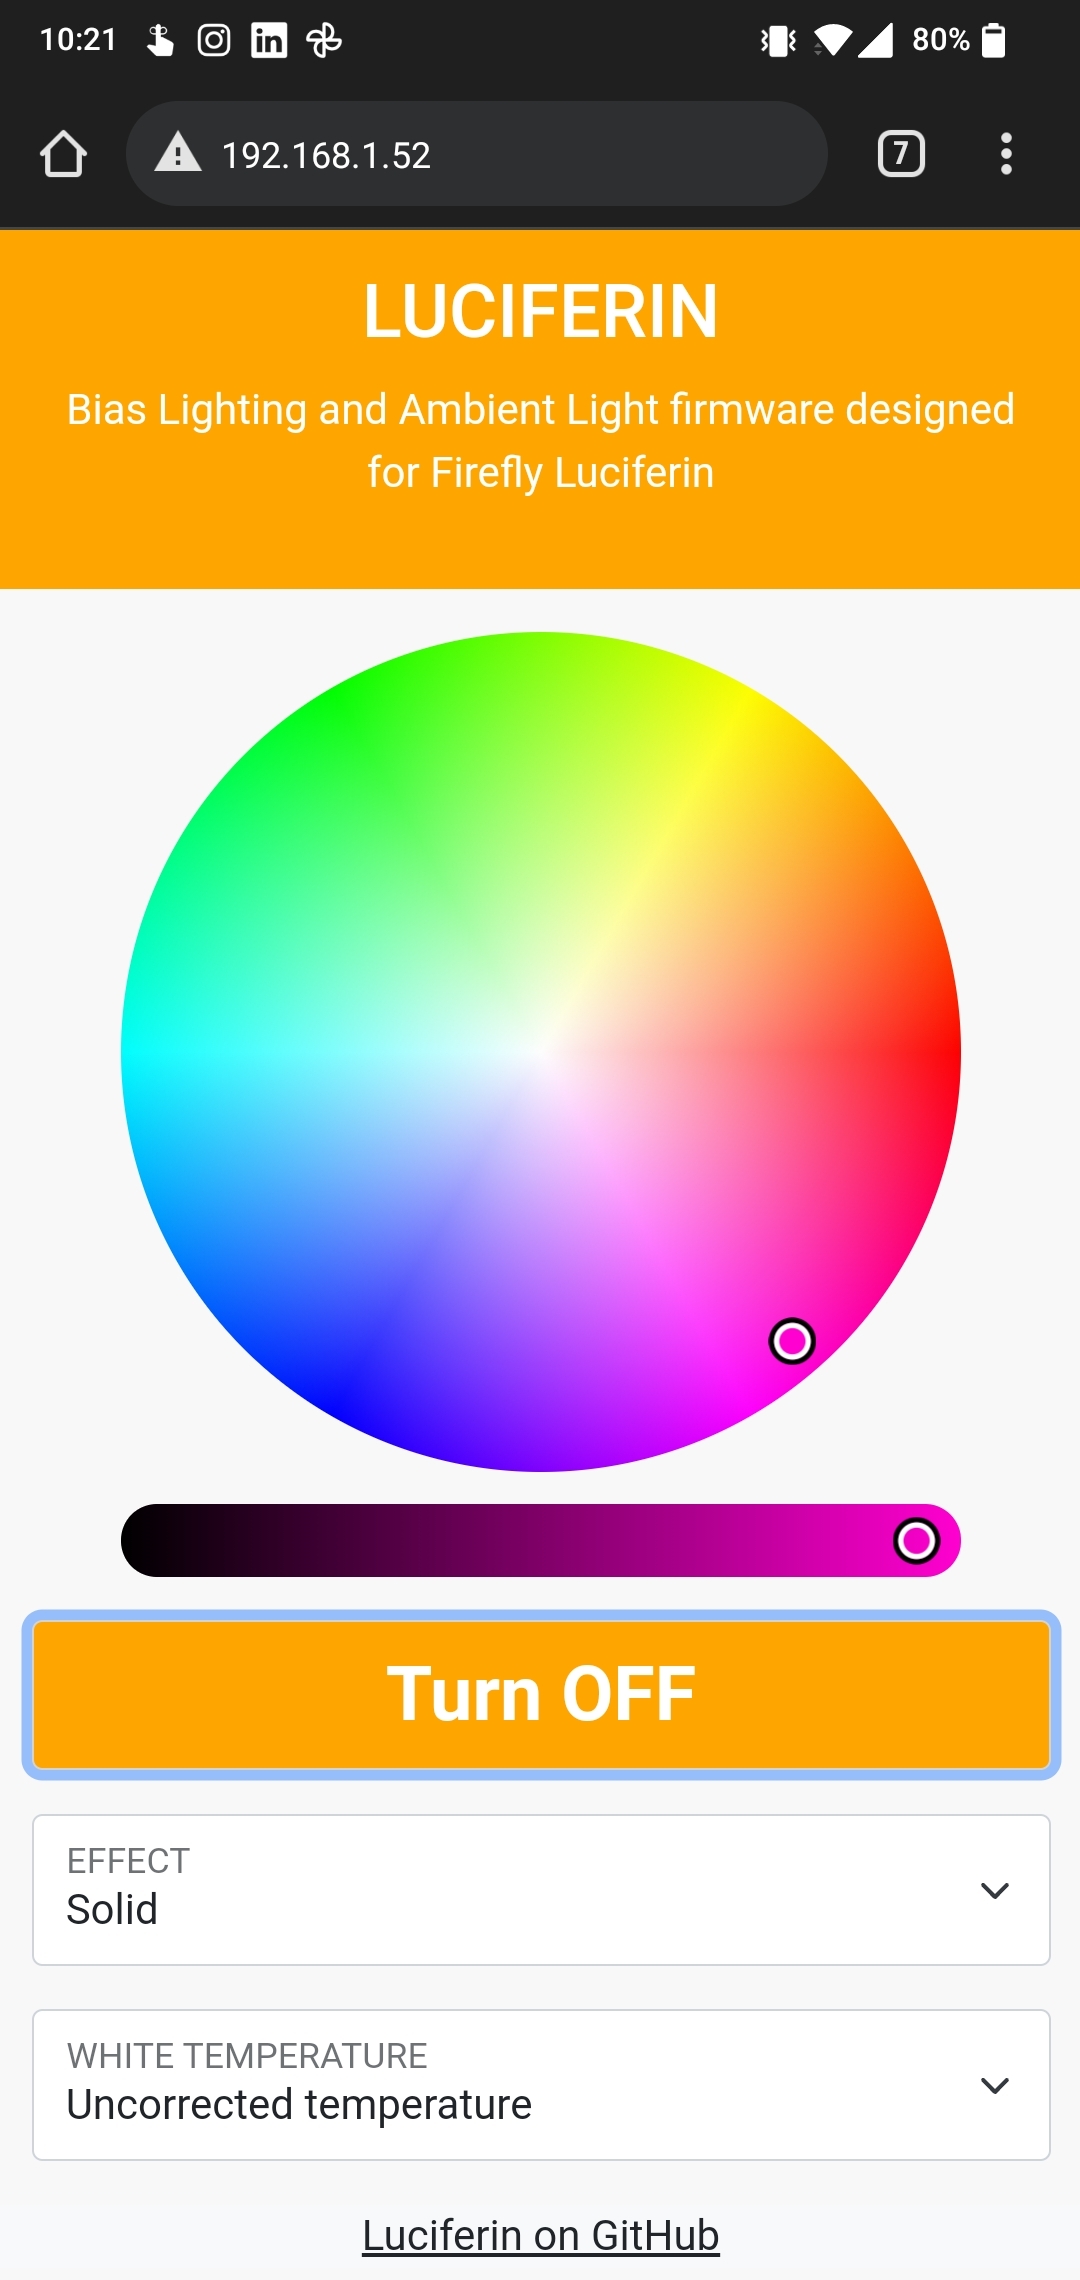
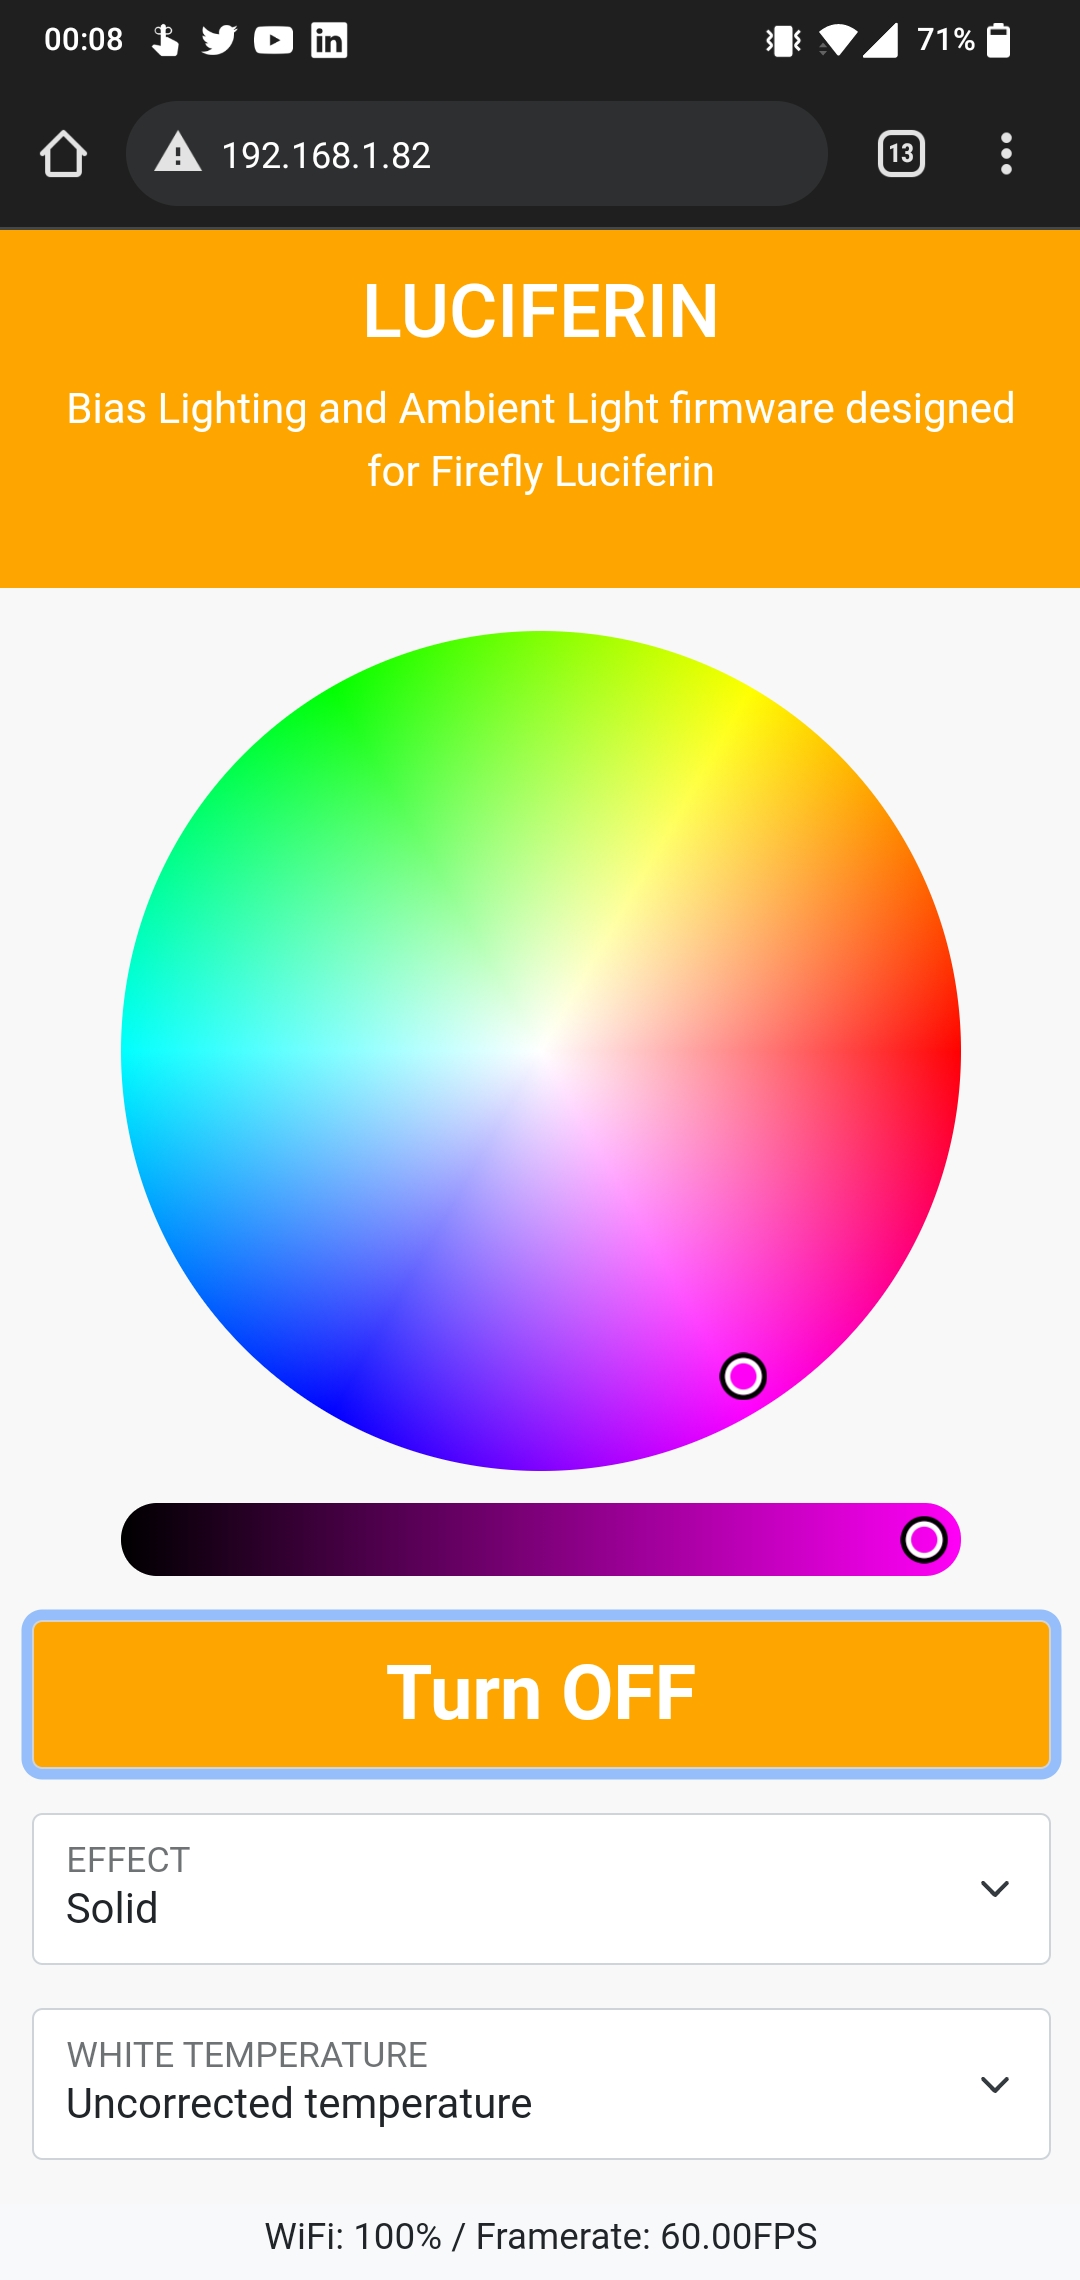
WiFi only

diff --git a/include/WebSettings.h b/include/WebSettings.h
@@ -21,63 +21,6 @@
 #ifndef GLOW_WORM_LUCIFERIN_WEBSETTINGS_H
 #define GLOW_WORM_LUCIFERIN_WEBSETTINGS_H
 
-const char settingsPage[] PROGMEM = R"=====(<!DOCTYPE html>
-<html>
-<head>
-    <title>LUCIFERIN Web Interface</title>
-    <meta charset='utf-8'>
-    <meta name='viewport' content='width=device-width, initial-scale=1'>
-    <link rel="icon" type="image/png" href="https://sblantipodi.github.io/glow_worm_luciferin/static/logos/luciferin_logo.png" >
-    <script src='https://code.jquery.com/jquery-3.6.0.slim.min.js' integrity='sha256-u7e5khyithlIdTpu22PHhENmPcRdFiHRjhAuHcs05RI=' crossorigin='anonymous'></script>
-    <link href='https://cdn.jsdelivr.net/npm/bootstrap@5.1.1/dist/css/bootstrap.min.css' rel='stylesheet'>
-    <script src='https://cdn.jsdelivr.net/npm/bootstrap@5.1.1/dist/js/bootstrap.bundle.min.js'></script>
-    <script src='https://cdn.jsdelivr.net/npm/@jaames/iro@5'></script>
-    <link href='https://sblantipodi.github.io/glow_worm_luciferin/webInterface.css' rel='stylesheet'>
-</head>
-<body>
-<div class='container-fluid p-3 bg-primary text-white text-center'>
-    <h1>LUCIFERIN</h1>
-    <p>Bias Lighting and Ambient Light firmware designed for Firefly Luciferin </p>
-</div>
-<div class='container'>
-    <div class='row'>
-        <div class='col' style='margin-top: 2vw;'>
-            <form onsubmit='submitForm(event)'>
-                <div class='form-group row'>
-                    <div class='col-sm-12'>
-                        <div class='wrap'>
-                            <div id='picker'></div>
-                        </div>
-                    </div>
-                    <div class='col-sm-12'>
-                        <button id='toggleLED' type='button' class='btn btn-primary' data-bs-toggle='button' autocomplete='off'>Turn ON</button>
-                    </div>
-                    <div class='col-sm-12'>
-                        <div class='form-floating'>
-                            <select class='form-select' id='effectSelect'>
-                            </select>
-                            <label for='effectSelect'>EFFECT</label>
-                        </div>
-                    </div>
-                    <div class='col-sm-12'>
-                        <div class='form-floating'>
-                            <select class='form-select' id='whiteTempSelect'>
-                            </select>
-                            <label for='whiteTempSelect'>WHITE TEMPERATURE</label>
-                        </div>
-                    </div>
-                </div>
-            </form>
-        </div>
-    </div>
-</div>
-<footer class='bg-light text-center text-lg-start'>
-    <div class='text-center'>
-        <small><a id='gitlink' class='text-dark' href='https://github.com/sblantipodi/'>_</a></small>
-    </div>
-</footer>
-<script src='https://sblantipodi.github.io/glow_worm_luciferin/webInterface.js'></script>
-</body>
-</html>)=====";
+const char settingsPage[] PROGMEM = R"=====(<!DOCTYPE html><html><head> <title>LUCIFERIN Web Interface</title> <meta charset='utf-8'> <meta name='viewport' content='width=device-width, initial-scale=1'> <link rel="icon" type="image/png" href="https://sblantipodi.github.io/glow_worm_luciferin/static/logos/luciferin_logo.png" > <script src='https://code.jquery.com/jquery-3.6.0.slim.min.js' integrity='sha256-u7e5khyithlIdTpu22PHhENmPcRdFiHRjhAuHcs05RI=' crossorigin='anonymous'></script> <link href='https://cdn.jsdelivr.net/npm/bootstrap@5.1.1/dist/css/bootstrap.min.css' rel='stylesheet'> <script src='https://cdn.jsdelivr.net/npm/bootstrap@5.1.1/dist/js/bootstrap.bundle.min.js'></script> <script src='https://cdn.jsdelivr.net/npm/@jaames/iro@5'></script> <link href='https://sblantipodi.github.io/glow_worm_luciferin/webInterface.css' rel='stylesheet'></head><body><div class='container-fluid p-3 bg-primary text-white text-center'> <h1>LUCIFERIN</h1> <p>Bias Lighting and Ambient Light firmware designed for Firefly Luciferin </p></div><div class='container'> <div class='row'> <div class='col' style='margin-top: 2vw;'> <form onsubmit='submitForm(event)'> <div class='form-group row'> <div class='col-sm-12'> <div class='wrap'> <div id='picker'></div></div></div><div class='col-sm-12'> <button id='toggleLED' type='button' class='btn btn-primary' data-bs-toggle='button' autocomplete='off'>Turn ON</button> </div><div class='col-sm-12'> <div class='form-floating'> <select class='form-select' id='effectSelect'> </select> <label for='effectSelect'>EFFECT</label> </div></div><div class='col-sm-12'> <div class='form-floating'> <select class='form-select' id='whiteTempSelect'> </select> <label for='whiteTempSelect'>WHITE TEMPERATURE</label> </div></div></div></form> </div></div></div><footer class='bg-light text-center text-lg-start'> <div class='text-center'> <small> WiFi: <span id='wifi'>_</span>/ Framerate: <span id='fps'>_</span><br><a id='gitlink' class='text-dark' href='https://github.com/sblantipodi/'>_</a></small> </div></footer><script src='https://sblantipodi.github.io/glow_worm_luciferin/webInterface.js'></script></body></html>)=====";
 
 #endif //GLOW_WORM_LUCIFERIN_WEBSETTINGS_H
